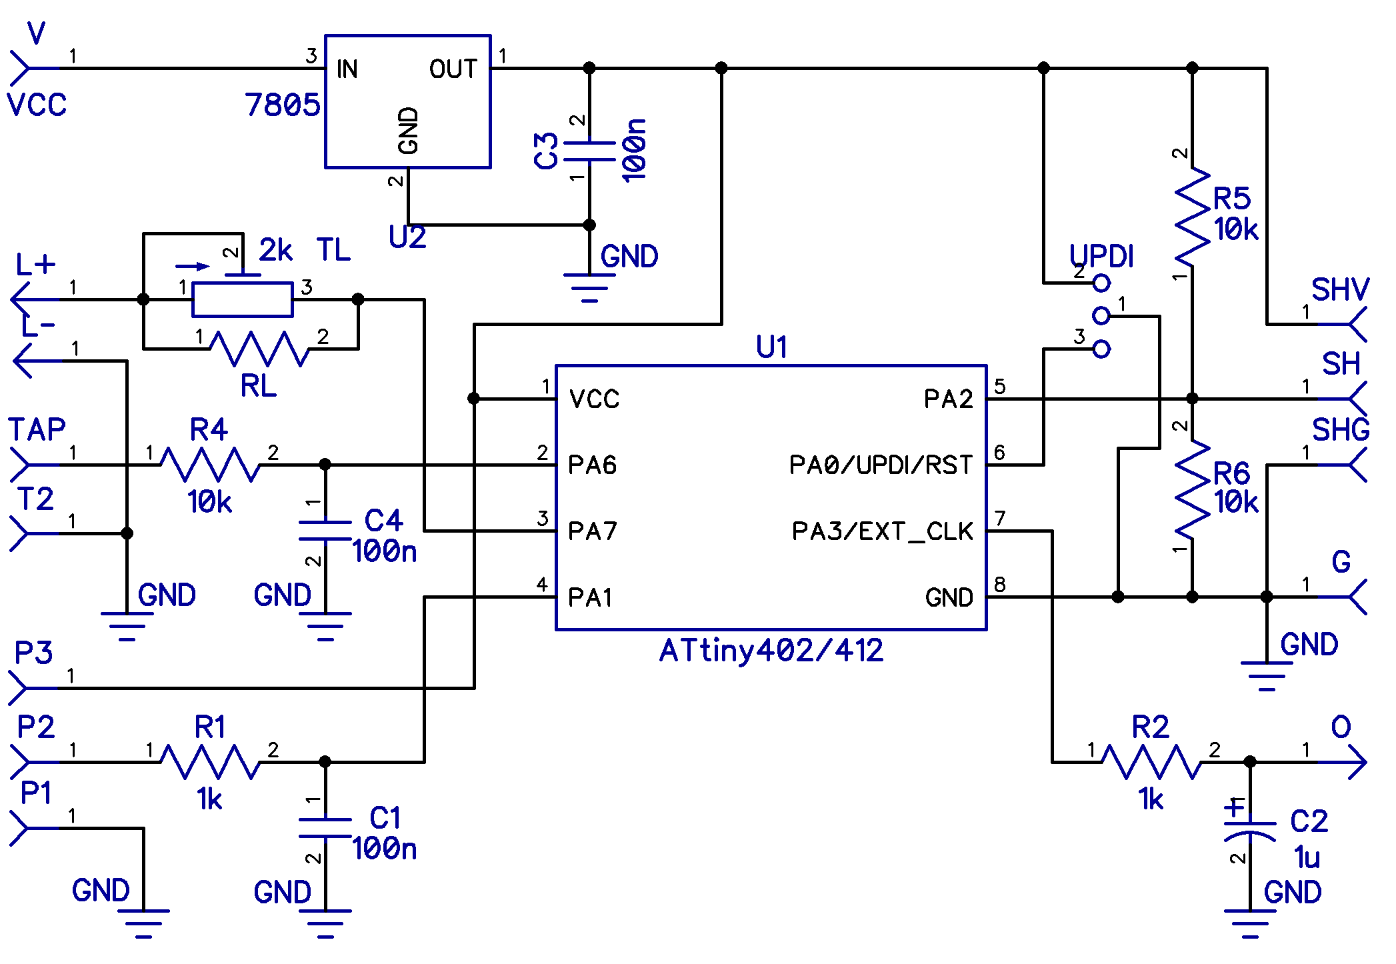
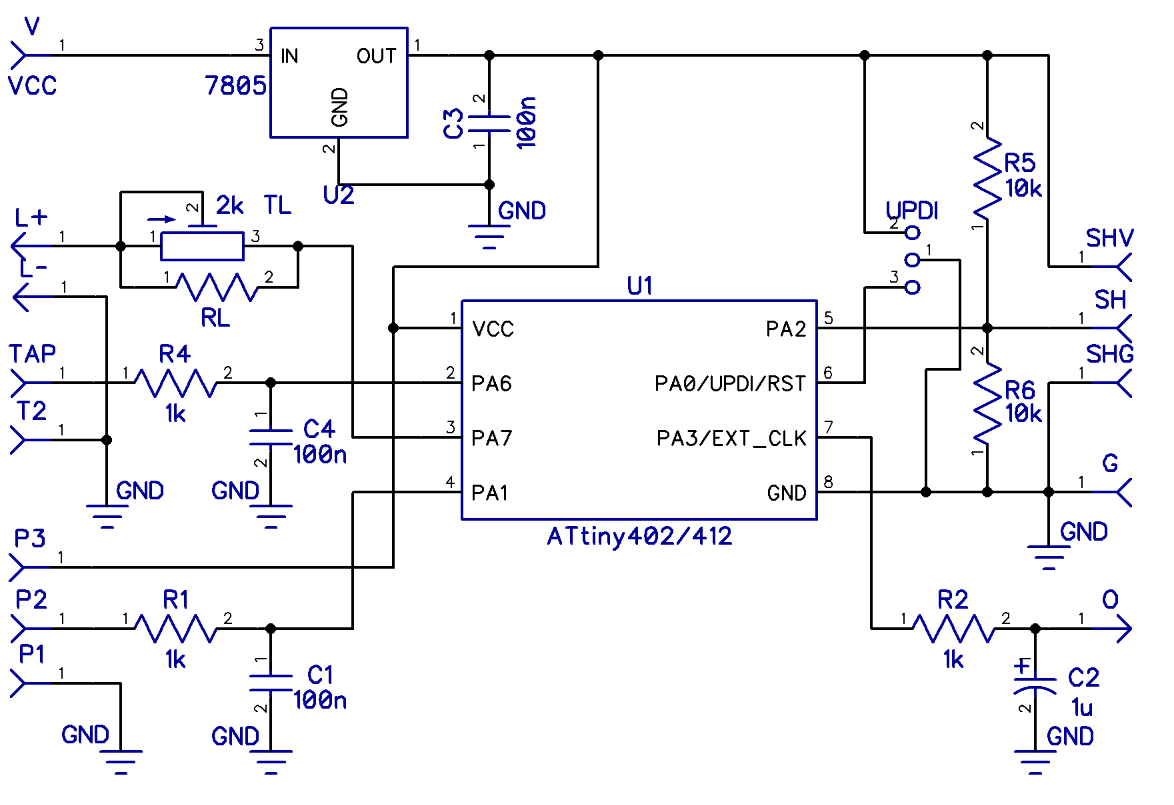
patched ADC code and schematic update after testing

Changed region(s): [[0.0, 0.0311, 0.9813, 0.9627], [0.0613, 0.5901, 0.1533, 0.6522], [0.0307, 0.9006, 0.1227, 0.9627]]

diff --git a/firmware/src/main.c b/firmware/src/main.c
@@ -54,7 +54,6 @@
 #include <avr/interrupt.h>
 #define F_CPU 20000000UL
 #include <util/delay.h>
-#include <stdlib.h>
 
 #define PWM_PIN 3 // PWM is the analog LFO after RC filtering
 #define TAP_PIN 6
@@ -122,6 +121,7 @@ volatile char revision[] = "rev_1";
 volatile uint16_t pot;         // current Pot value is stored here from ADC by interrupt handler
 volatile uint16_t divsw;       // current shape-switch ADC value (AIN2)
 volatile uint8_t adc_shape_ok; // 1 after AIN2 has been sampled at least once
+static volatile uint8_t adc_mux_settle; // 1 = discard next result (S/H cap still settling after MUX change)
 volatile uint16_t pwm = 500;   // current PWM sample (0..c_pwm_max), written by LFO in TCA ISR
 volatile uint16_t ms;          // time [ms] counter for Tap button pressed length and delayed `tap` reset in EEPROM respectively. Incremented in TCA interrupt.
 
@@ -171,33 +171,45 @@ void ADC_Config(void)
     ADC0.INTCTRL = ADC_RESRDY_bm;
     // 10bits freerun & enable
     ADC0.CTRLA |= ADC_ENABLE_bm | ADC_RESSEL_10BIT_gc | ADC_FREERUN_bm;
+    adc_mux_settle = 1; // discard first conversion after enable
     // Start conversion
     ADC0.COMMAND = ADC_STCONV_bm;
 }
 
 // interrupt handler for ADC
 // ADC mux: pot (AIN1) and on-off-on shape switch (AIN2)
+// Discard the first conversion after each MUX change — the sample cap still
+// holds the previous channel (shape sits at ~VCC/2, which pulled pot toward center).
 ISR(ADC0_RESRDY_vect)
 {
-    switch (ADC0.MUXPOS)
+    if (adc_mux_settle)
     {
-    case ADC_MUXPOS_AIN1_gc:
-        pot = ADC0.RES;
-        ADC0.MUXPOS = ADC_MUXPOS_AIN2_gc; // next conversion: shape
-        break;
+        adc_mux_settle = 0;
+    }
+    else
+    {
+        switch (ADC0.MUXPOS)
+        {
+        case ADC_MUXPOS_AIN1_gc:
+            pot = ADC0.RES;
+            ADC0.MUXPOS = ADC_MUXPOS_AIN2_gc;
+            adc_mux_settle = 1;
+            break;
 
-    case ADC_MUXPOS_AIN2_gc:
-        divsw = ADC0.RES;
-        adc_shape_ok = 1;
-        ADC0.MUXPOS = ADC_MUXPOS_AIN1_gc; // next conversion: pot
-        break;
+        case ADC_MUXPOS_AIN2_gc:
+            divsw = ADC0.RES;
+            adc_shape_ok = 1;
+            ADC0.MUXPOS = ADC_MUXPOS_AIN1_gc;
+            adc_mux_settle = 1;
+            break;
 
-    default:
-        ADC0.MUXPOS = ADC_MUXPOS_AIN1_gc;
-        break;
+        default:
+            ADC0.MUXPOS = ADC_MUXPOS_AIN1_gc;
+            adc_mux_settle = 1;
+            break;
+        }
     }
 
-    // Clear interrupt flag
     ADC0.INTFLAGS = ADC_RESRDY_bm;
 }
 
@@ -400,6 +412,11 @@ static inline void snap_adc(uint16_t *p, uint16_t *d)
     *p = pot;
     *d = divsw;
     sei();
+}
+
+static inline uint16_t adc_delta(uint16_t a, uint16_t b)
+{
+    return (a > b) ? (a - b) : (b - a);
 }
 
 // On-off-on: GND / ~VCC/2 / VCC → layer 0 / 1 / 2
@@ -660,7 +677,7 @@ int main(void)
 
         // TIME POT handling
         // if pot move of more than 5%, changing to pot control
-        if ((tap == 1 && tapping == 0 && abs(previouspot - pot_now) >= 50) || (tap == 0 && tapping == 0 && abs(previouspot - pot_now) >= 10))
+        if ((tap == 1 && tapping == 0 && adc_delta(previouspot, pot_now) >= 50) || (tap == 0 && tapping == 0 && adc_delta(previouspot, pot_now) >= 10))
         {
             divtempo = pot_to_period(pot_now);
             set_lfo_period(divtempo, 0);
@@ -712,6 +729,7 @@ int main(void)
 
                     // reset state machine
                     tap = 1;
+                    previouspot = pot_now;
                     ms = 0;
                     nbtap = 0;
                     tapping = 0;
@@ -754,6 +772,7 @@ int main(void)
                 set_lfo_period(divtempo, 1);
                 nbtap = 2;
                 tap = 1;
+                previouspot = pot_now;
                 ms = 0;
                 second_down = 0;
                 first_tap_released = 0;
@@ -801,6 +820,7 @@ int main(void)
                 laststate = 1;
                 ms = 0;
                 tap = 1;
+                previouspot = pot_now;
             }
         }
         else if (currentstate == 1 && laststate == 1) // Tap button keeps on

diff --git a/README.md b/README.md
@@ -63,7 +63,7 @@ Schematics and PCB design file can be opened/edited by [DipTrace](https://diptra
   - `VCC` - 5V power, but can run on 3.3V also
   - You can use a connector to disconnect module easily for programming, spacing on PCB is 2.54mm for it.
 - `Speed Pot` - connect pot's 1, 2 and 3 lugs to the module's `P1`, `P2` and `P3`.
-  Use `B` type pot, from `B10k` up to `B100k`. Higher voltage is higher LFO Speed (shorter LFO period).
+  Use `B` type pot, ideally `B10k`. Higher voltage is higher LFO Speed (shorter LFO period).
 - `Tap Button` - connect momentary button to the module's `TAP` pads.
 - `LED` - connect LED to the module's `L+` and `L-`. Use `TL` trimmer to set LED's brightness. Used `2k` value should
   be OK for the most LED types, if too small for your LED, use higher trimmer value, or connect additional resistor
@@ -99,8 +99,8 @@ PCB BOM:
 
 | Markings           | Value             | PCB packaging type                                    |
 | ------------------ | ----------------- | ----------------------------------------------------- |
-| R1, R2             | 1k                | 1206                                                  |
-| R4, R5, R6         | 10k               | 1206                                                  |
+| R1, R2, R4         | 1k                | 1206                                                  |
+| R5, R6             | 10k               | 1206                                                  |
 | C1, C3, C4         | 100n              | 1206                                                  |
 | C2                 | 1u                | 5mm                                                   |
 | TL                 | 2k or 5k          | 3362 trimmer                                          |
@@ -113,7 +113,7 @@ External components:
 
 | Markings     | Value                  |
 | ------------ | ---------------------- |
-| `Speed Pot`  | B10k - B100k           |
+| `Speed Pot`  | B10k                   |
 | LED          | any color and size LED |
 | `Tap Button` | any momentary switch   |
 | `Shape`      | SPDT on-off-on         |
